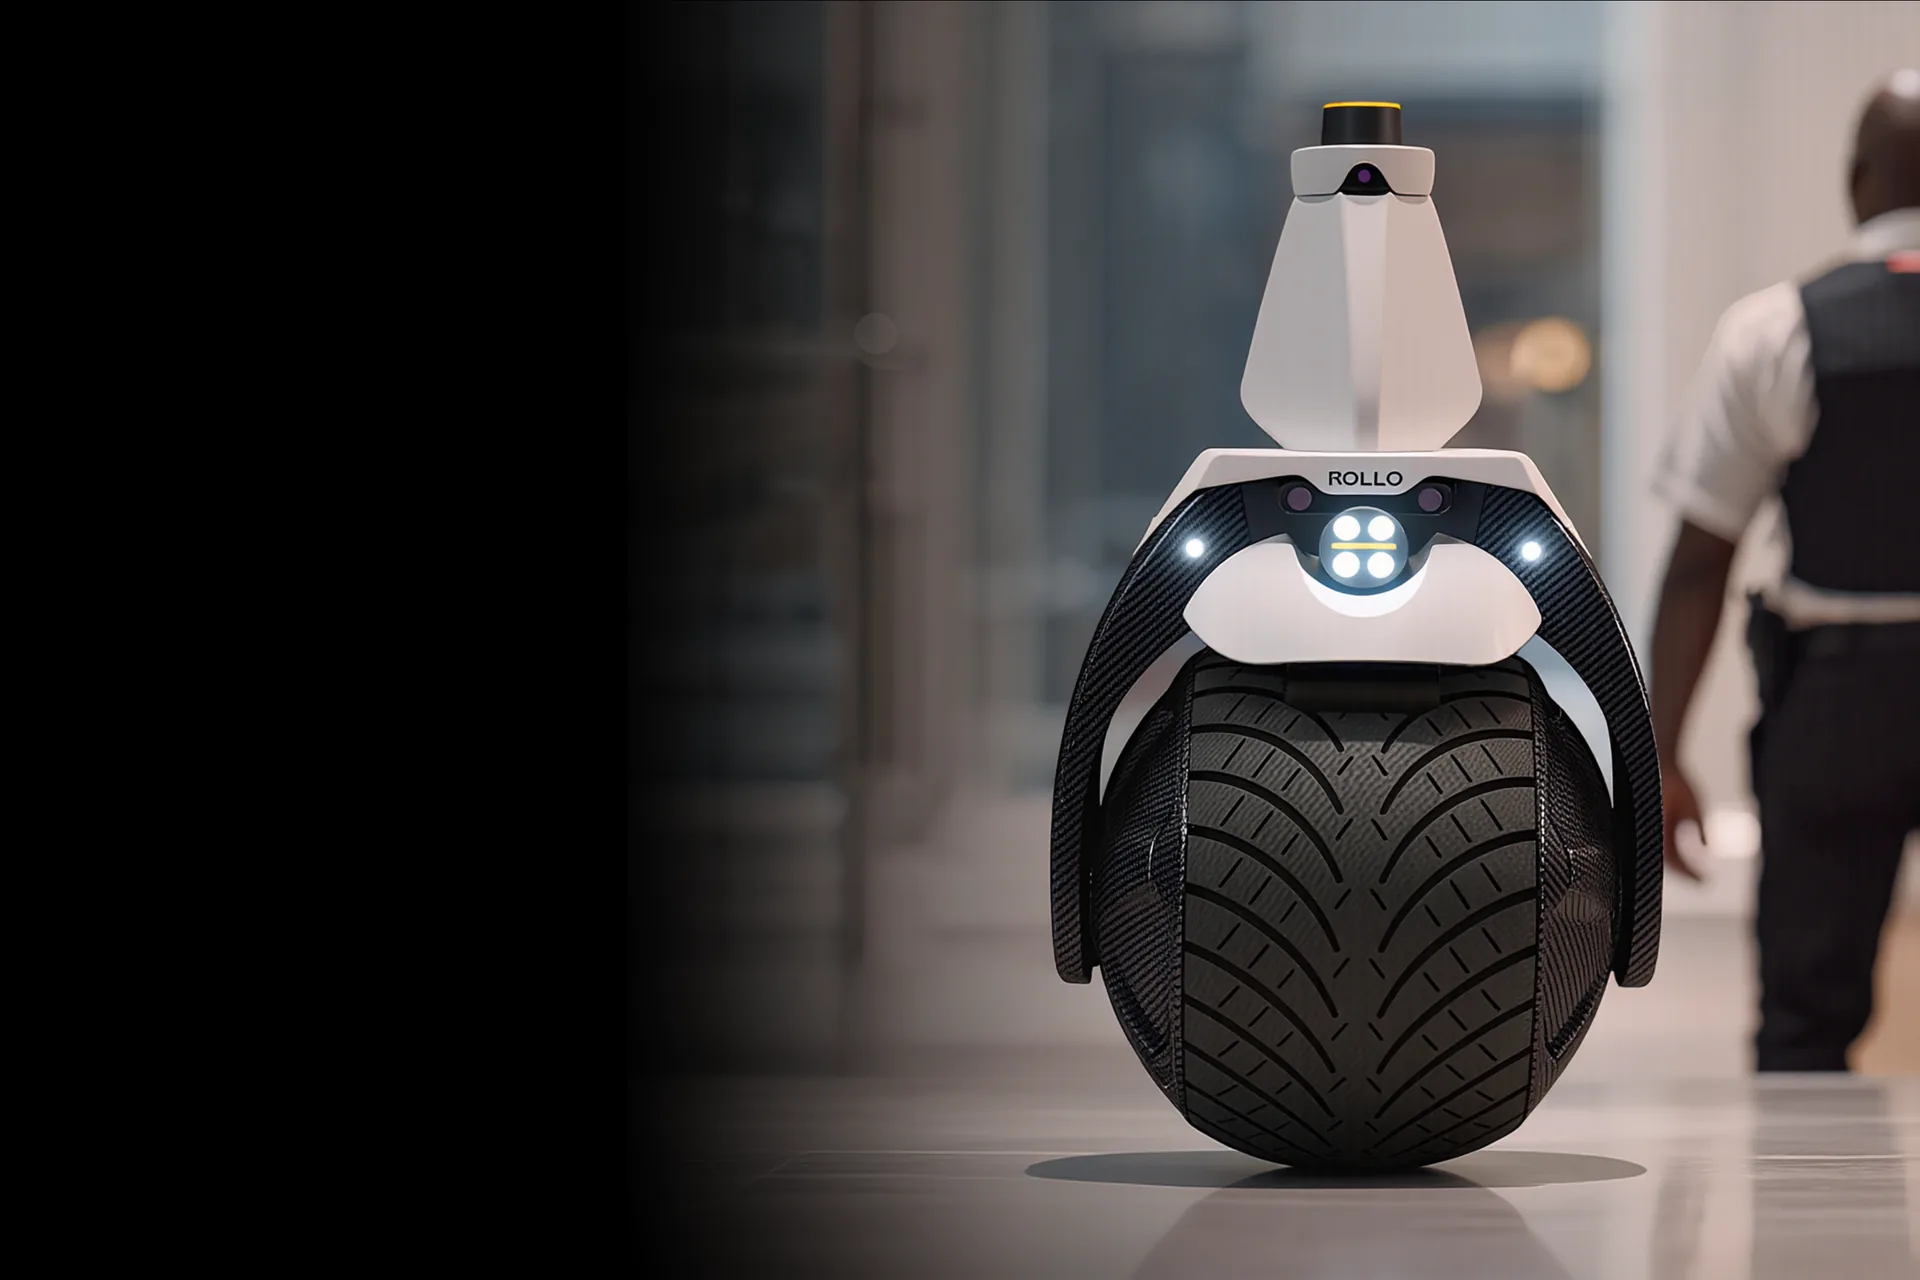
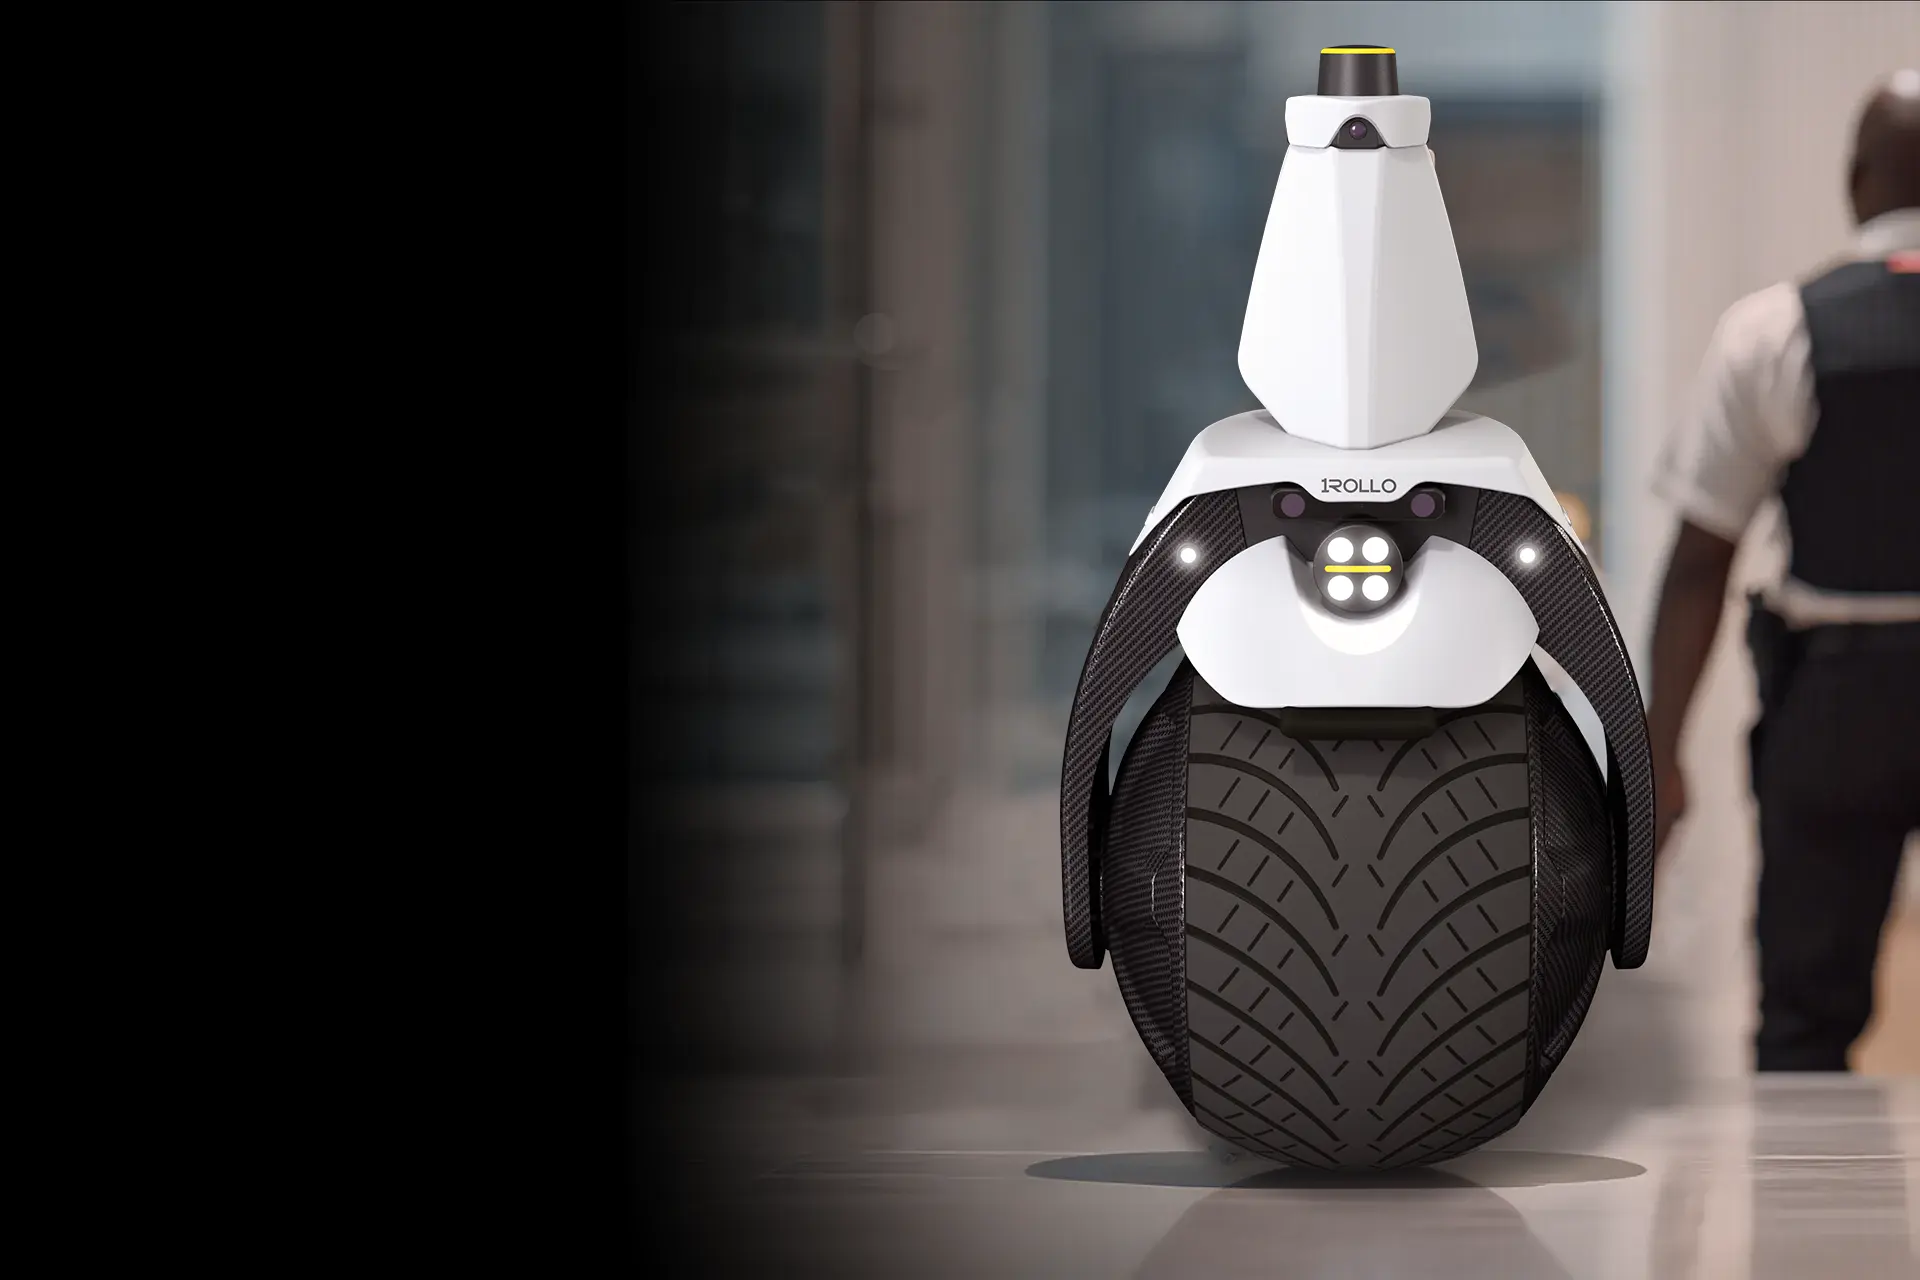
Fix Product page hero height on mobile
Changed hero from min-h-[100svh] to h-[100svh] to enforce exact
viewport height instead of minimum height. This ensures the hero
is consistently full-screen on mobile devices.

Also updated hero background image.

Changed region(s): [[0.5312, 0.0312, 0.9375, 0.9375]]

diff --git a/src/pages/Product.tsx b/src/pages/Product.tsx
@@ -51,7 +51,7 @@ const Product = () => {
   return (
     <div className="pb-28 md:pb-56">
       {/* A) Hero / Intro */}
-      <section className="section-glow-top relative w-full min-h-[100svh] flex items-center overflow-hidden">
+      <section className="section-glow-top relative w-full h-[100svh] flex items-center overflow-hidden">
         <picture>
           <img
             src="/robot/F6/1rollo_auto_sec.webp"